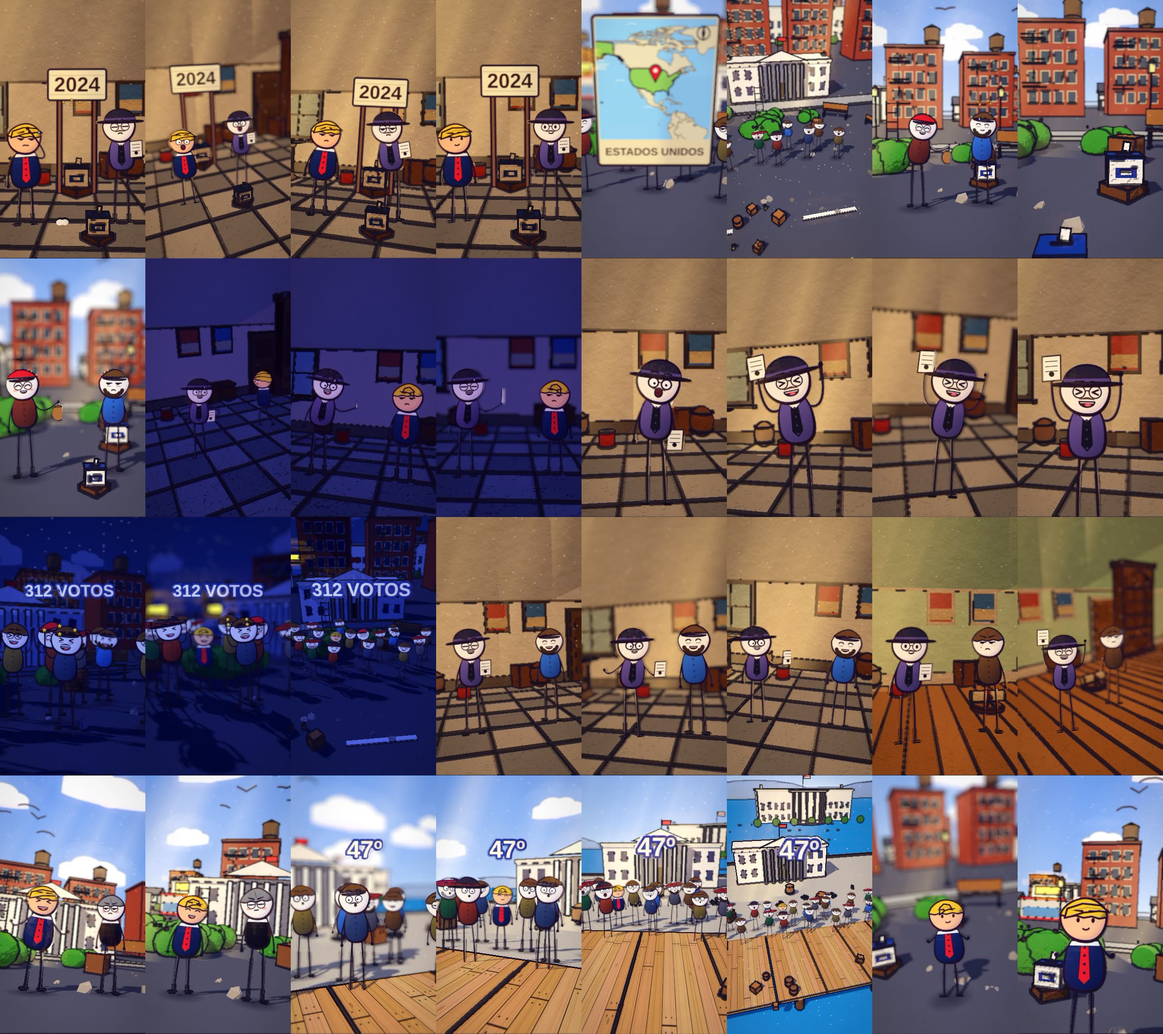
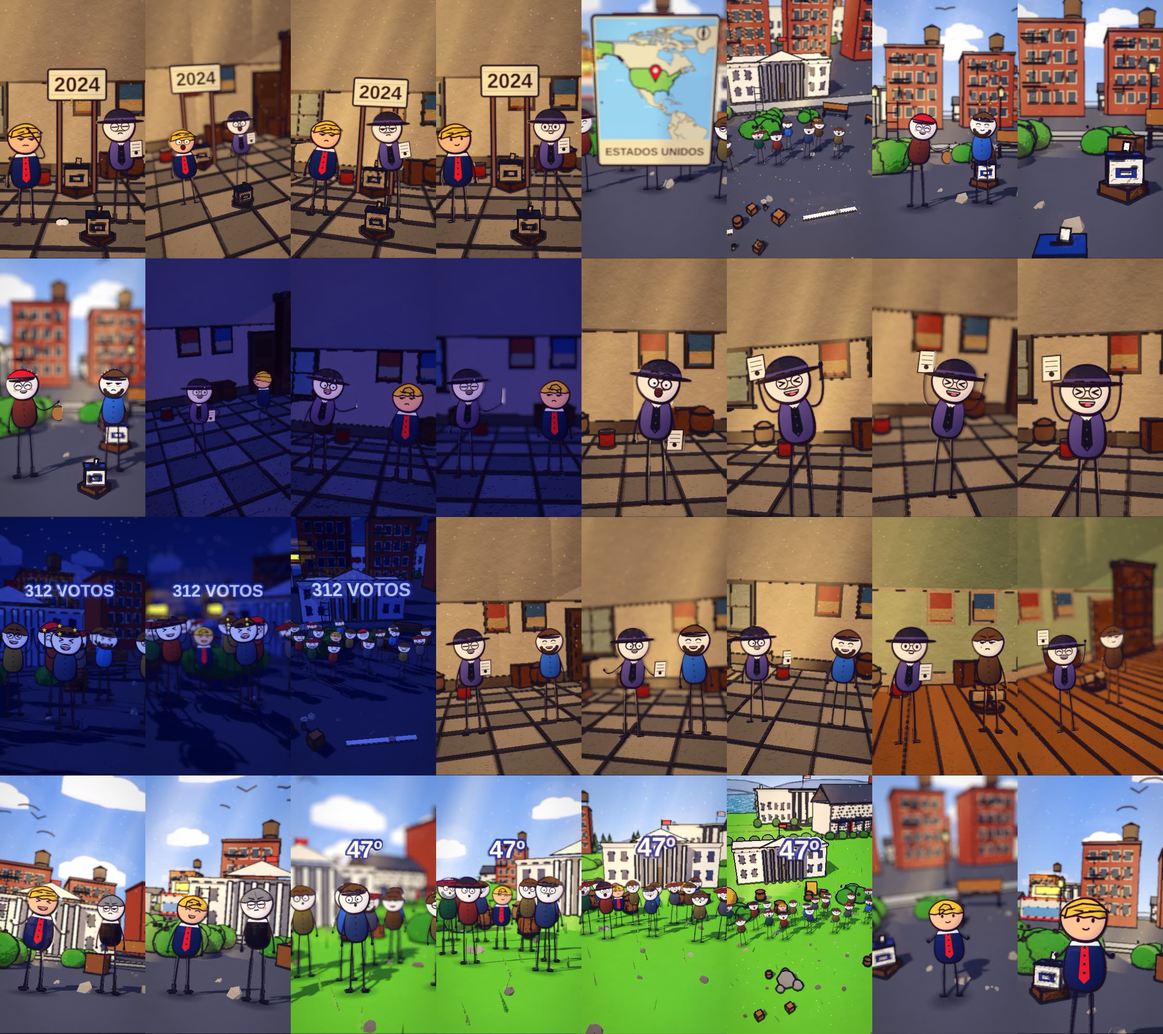
sessao A: reeleicao2024 corrigido (figurino GEN), storyboard aprovado
Claude-Session: https://claude.ai/code/session_01WNYYpR2eGm1WHv4JW2i7zj

Changed region(s): [[0.25, 0.743, 0.75, 1.0]]

diff --git a/ferramenta-shorts/stories/reeleicao2024/spec.js b/ferramenta-shorts/stories/reeleicao2024/spec.js
@@ -1,10 +1,10 @@
 // Poder e Fama EP 21 - A Volta de Trump -- GERADO por mkvideo.py a partir de videos/reeleicao2024/beats.json (edite o beats.json, nao este arquivo)
 globalThis.REGMAP = {"buildings/house_small": ["kit/rg_eua_1", "kit/rg_eua_2", "kit/rg_eua_3"], "buildings/house_two": ["kit/rg_eua_2", "kit/rg_eua_3", "kit/rg_eua_1"], "buildings/house_blue": ["kit/rg_eua_1", "kit/rg_eua_2", "kit/rg_eua_3"], "buildings/shop": ["kit/rg_eua_3", "kit/rg_eua_1", "kit/rg_eua_2"], "buildings/apartment": ["kit/rg_eua_1", "kit/rg_eua_2", "kit/rg_eua_3"], "buildings/church": ["kit/rg_eua_3", "kit/rg_eua_1", "kit/rg_eua_2"], "buildings/barn": ["kit/rg_eua_1", "kit/rg_eua_2", "kit/rg_eua_3"], "buildings/castle_tower": ["kit/rg_eua_3"], "buildings/windmill": ["kit/rg_eua_1"], "vehicles/tank": ["kit/tanque_moderno"], "ship": ["kit/navio_moderno"]}; globalThis.REGCHAO = "#6a6a70"; globalThis.ASFALTO = true; globalThis.PRAIA = false; globalThis.SEM_NAVIO = true;
-const X = 12000, DK = 6; const X_hall = 8000;
+const X = 12000, DK = 6; const X_countryside = 1000; const X_hall = 8000;
 const WS = (i, off = 0) => TIMING.words[Math.min(i, TIMING.words.length - 1)][0] + off;   // frame em que a palavra de indice i comeca
 const A = [0, WS(18, -3), WS(33, -3), WS(47, -3), WS(58, -3), WS(76, -3), WS(89, -3), WS(105, -3), WS(117, -3), WS(133, -3), WS(149, -3), TOTAL_F()];
 const SPEC = {
-  id: "reeleicao2024", vseed: 3, cutLen: 54, dissolveN: 7, glideN: 20, creep: 0.003, total: TOTAL_F(), sets: ["street", "hall"], setx: { street: X, hall: X_hall },
+  id: "reeleicao2024", vseed: 3, cutLen: 54, dissolveN: 7, glideN: 20, creep: 0.003, total: TOTAL_F(), sets: ["street", "countryside", "hall"], setx: { street: X, countryside: X_countryside, hall: X_hall },
   outfits: { TRU: (v = 0, e = {}) => ({ _id: "tru", jacket: "#1f2f5c", pants: "#1f2f5c", boots: "#1b1b1f", hat: "hair", hair: "#f2c84a", tie: "#d8282f", pele: "#f5c49a", build: "stout", swoop: true, collar: "#f4f4f2", skin: ["#ffe2c2", "#f5c9a0", "#ecd0b6", "#c99067"][v % 4], ...(((v + 251) % 6 === 4 && false) ? { glasses: true } : {}), ...(([1, 5].includes((v + 251) % 6) && false) ? { beard: ['#3a2a1f', '#6b4a2a', '#8a8a86'][(v + 3) % 3] } : {}), ...((((v + 251) % 6 === 3) && false) ? { moustache: ['#4a3020', '#2a201a', '#8a8a86'][v % 3] } : {}), ...e }),
     ELE: (v = 0, e = {}) => ({ _id: "ele", jacket: "#7a3a2a", pants: "#3b3f52", boots: "#1b1b1f", hat: "cap", cap: "#d8282f", skin: ["#ffe2c2", "#f5c9a0", "#ecd0b6", "#c99067"][v % 4], ...(((v + 214) % 6 === 4 && true) ? { glasses: true } : {}), ...(([1, 5].includes((v + 214) % 6) && true) ? { beard: ['#3a2a1f', '#6b4a2a', '#8a8a86'][(v + 3) % 3] } : {}), ...((((v + 214) % 6 === 3) && true) ? { moustache: ['#4a3020', '#2a201a', '#8a8a86'][v % 3] } : {}), ...e }),
     REP: (v = 0, e = {}) => ({ _id: "rep", jacket: "#6a5a8a", pants: "#3b3f52", boots: "#1b1b1f", hat: "bowler", glasses: true, tie: "#1b1b1f", skin: ["#ffe2c2", "#f5c9a0", "#ecd0b6", "#c99067"][v % 4], ...(((v + 231) % 6 === 4 && false) ? { glasses: true } : {}), ...(([1, 5].includes((v + 231) % 6) && true) ? { beard: ['#3a2a1f', '#6b4a2a', '#8a8a86'][(v + 3) % 3] } : {}), ...((((v + 231) % 6 === 3) && true) ? { moustache: ['#4a3020', '#2a201a', '#8a8a86'][v % 3] } : {}), ...e }),
@@ -22,7 +22,7 @@ const SPEC = {
     S('b6', A[6], A[7] - 1, X_hall, "study", { h: 2.3, d0: 8.4, d1: 7.4, hero: { hero: 'any', frame: 'medium', minH: 0.07, main: 2 }, trans: 'dissolve', actors: [pp(X_hall, "REP", 0, -1.15, 1.3, "surprised", { over: { hold: "paper" }, pose: 'talk', inter: { k: 'step', a: Math.round(A[6] + (A[7] - 1 - (A[6])) * 0.12), b: Math.round(A[6] + (A[7] - 1 - (A[6])) * 0.82), dir: 1, n: 2, ph: 0 } }), pp(X_hall, "POV", 0, 1.15, 1.0, "grin", { pose: 'talk', inter: { k: 'nod', a: Math.round(A[6] + (A[7] - 1 - (A[6])) * 0.2), b: Math.round(A[6] + (A[7] - 1 - (A[6])) * 0.9), dir: -1, n: 2, ph: 3.14 } })], props: [{ asset: "kit/room_eua_stone", at: [X_hall, 0], s: 1, drop: false }, { asset: "mk/Bookcase_2", at: [X_hall + 7.4, -3.4], s: 2.4, drop: false }, { asset: "mk/Table_Large", at: [X_hall + -6.6, -1.6], s: 2.2, drop: false }, { asset: "mk/Chair_1", at: [X_hall + -4.4, -1.2], s: 2.2, drop: false }, { asset: "mk/Chest_Wood", at: [X_hall + 6.9, 0.6], s: 2.2, drop: false }] }),
     S('b7', A[7], A[8] - 1, X_hall, "study", { h: 2.3, d0: 8.4, d1: 7.4, hero: { hero: 'any', frame: 'medium', minH: 0.07, main: 2 }, trans: 'dissolve', actors: [pp(X_hall, "REP", 0, -1.15, 1.3, "smile", { over: { hold: "paper" }, inter: { k: 'lean', a: Math.round(A[7] + (A[8] - 1 - (A[7])) * 0.12), b: Math.round(A[7] + (A[8] - 1 - (A[7])) * 0.82), dir: 1, n: 2, ph: 0 } }), pp(X_hall, "POV", 1, 1.15, 1.0, "suspicious", { pose: 'talk', inter: { k: 'nod', a: Math.round(A[7] + (A[8] - 1 - (A[7])) * 0.2), b: Math.round(A[7] + (A[8] - 1 - (A[7])) * 0.9), dir: -1, n: 2, ph: 3.14 } })], props: [{ asset: "kit/room_eua_wood", at: [X_hall, 0], s: 1, drop: false }, { asset: "mk/Bookcase_2", at: [X_hall + 7.4, -3.4], s: 2.4, drop: false }, { asset: "mk/Table_Large", at: [X_hall + -6.6, -1.6], s: 2.2, drop: false }, { asset: "mk/Chair_1", at: [X_hall + -4.4, -1.2], s: 2.2, drop: false }, { asset: "mk/Chest_Wood", at: [X_hall + 6.9, 0.6], s: 2.2, drop: false }, { asset: "kit/scroll", at: [X_hall + 1.6, -0.8], s: 1.0, drop: false }], fx: [{ k: "puff", a: A[7] + 30, b: A[7] + 56, at: [X_hall + 0.9, DK + 0.12, 1.0], s: 0.75 }] }),
     S('b8', A[8], A[9] - 1, X, "day", { h: 2.3, d0: 8.4, d1: 7.4, hero: { hero: 'any', frame: 'medium', minH: 0.07, main: 2 }, trans: 'dissolve', actors: [pp(X, "TRU", 0, -1.15, 1.3, "grin", { pose: 'talk', inter: { k: 'step', a: Math.round(A[8] + (A[9] - 1 - (A[8])) * 0.12), b: Math.round(A[8] + (A[9] - 1 - (A[8])) * 0.82), dir: 1, n: 2, ph: 0 } }), pp(X, "GEN", 0, 1.15, 1.0, "stern", { pose: 'talk', inter: { k: 'nod', a: Math.round(A[8] + (A[9] - 1 - (A[8])) * 0.2), b: Math.round(A[8] + (A[9] - 1 - (A[8])) * 0.9), dir: -1, n: 2, ph: 3.14 } })], props: [{ asset: "kit/white_house", at: [X + 0, -14.0], s: 1.4, drop: false }, { asset: "kit/marco_casabranca", at: [X + -18, -70], s: 1.0, drop: false }], fx: [{ k: 'birds', a: A[8], b: A[9] - 1, at: [X, DK + 7.5, -30], n: 6, dir: 1, off: 8 }] }),
-    { ...{ ...S('b9', A[9], Math.round(A[9] + (A[10] - 1 + 1 - (A[9])) * 0.3) - 1, X, "day", { h: 2.6, d0: 25.0, d1: 19.0, el: 11, fov: 46, az0: -38, az1: 32, cx: 0.0, cz: -1.5, hero: { hero: 'none', wide: true }, vary: false, nocut: true, trans: 'dissolve', actors: [pp(X, "TRU", 0, -2.1, -0.4, "smug"), pp(X, "POV", 0, 0.0, 0.2, "surprised"), pp(X, "POV", 1, 2.1, -0.8, "grin"), pp(X, "POV", 0, -8.05, 0.84, "surprised", { look: -0.25, seed: 0 }), pp(X, "POV", 1, -5.79, 1.32, "surprised", { look: 0.25, seed: 1 }), pp(X, "POV", 2, -3.53, 0.96, "surprised", { look: 0.0, seed: 2 }), pp(X, "POV", 3, -2.26, 1.44, "surprised", { look: 0.15, seed: 3 }), pp(X, "POV", 4, 0.0, 1.08, "surprised", { look: -0.25, seed: 0 }), pp(X, "POV", 5, 2.26, 1.56, "surprised", { look: 0.25, seed: 1 }), pp(X, "POV", 6, 3.53, 1.2, "surprised", { look: 0.0, seed: 2 }), pp(X, "POV", 0, 5.79, 0.84, "surprised", { look: 0.15, seed: 3 }), pp(X, "POV", 1, 8.05, 1.32, "surprised", { look: -0.25, seed: 0 }), pp(X, "POV", 2, -6.88, -1.14, "surprised", { look: 0.25, seed: 1 }), pp(X, "POV", 3, -4.62, -0.66, "surprised", { look: 0.0, seed: 2 }), pp(X, "POV", 4, -3.35, -1.02, "surprised", { look: 0.15, seed: 3 }), pp(X, "POV", 5, -1.09, -0.54, "surprised", { look: -0.25, seed: 0 }), pp(X, "POV", 6, 1.17, -0.9, "surprised", { look: 0.25, seed: 1 }), pp(X, "POV", 0, 2.44, -1.26, "surprised", { look: 0.0, seed: 2 }), pp(X, "POV", 1, 4.7, -0.78, "surprised", { look: 0.15, seed: 3 }), pp(X, "POV", 2, 6.96, -1.14, "surprised", { look: -0.25, seed: 0 }), pp(X, "POV", 3, 8.23, -0.66, "surprised", { look: 0.25, seed: 1 })], props: [{ asset: "kit/white_house", at: [X + 0, -14.0], s: 1.4, drop: false }, { asset: "kit/marco_casabranca", at: [X + 18, -70], s: 1.0, drop: false }], fx: [{ k: 'birds', a: A[9], b: A[10] - 1, at: [X, DK + 4.5, -30], n: 4, dir: 1, off: 15 }, txt(X, WS(133, -2), A[10] - 1, "47º", '#fff6e0', '#27408b', 4.8, { s: 1.5, up: 0.42 }), { k: "ring", a: A[9] + 30, b: A[9] + 56, at: [X, DK + 0.5, 1.2], s: 1.1 }] }), nocut: true }, cam: [{ f: A[9], at: [X + 0.0, DK + 2.2, 0.5], d: 8.5, az: -26, el: 2, fov: 44 }, { f: Math.round(A[9] + (A[10] - 1 + 1 - (A[9])) * 0.3) - 1, at: [X + 1.0, DK + 2.2, 0.5], d: 7.4, az: -14, el: 3, fov: 44 }], nocut: true, vary: false }, { ...{ ...S('b9_1', Math.round(A[9] + (A[10] - 1 + 1 - (A[9])) * 0.3), Math.round(A[9] + (A[10] - 1 + 1 - (A[9])) * 0.55) - 1, X, "day", { h: 2.6, d0: 25.0, d1: 19.0, el: 11, fov: 46, az0: -38, az1: 32, cx: 0.0, cz: -1.5, hero: { hero: 'none', wide: true }, vary: false, nocut: true, trans: 'cut', actors: [pp(X, "TRU", 0, -2.1, -0.4, "smug"), pp(X, "POV", 0, 0.0, 0.2, "surprised"), pp(X, "POV", 1, 2.1, -0.8, "grin"), pp(X, "POV", 0, -8.05, 0.84, "surprised", { look: -0.25, seed: 0 }), pp(X, "POV", 1, -5.79, 1.32, "surprised", { look: 0.25, seed: 1 }), pp(X, "POV", 2, -3.53, 0.96, "surprised", { look: 0.0, seed: 2 }), pp(X, "POV", 3, -2.26, 1.44, "surprised", { look: 0.15, seed: 3 }), pp(X, "POV", 4, 0.0, 1.08, "surprised", { look: -0.25, seed: 0 }), pp(X, "POV", 5, 2.26, 1.56, "surprised", { look: 0.25, seed: 1 }), pp(X, "POV", 6, 3.53, 1.2, "surprised", { look: 0.0, seed: 2 }), pp(X, "POV", 0, 5.79, 0.84, "surprised", { look: 0.15, seed: 3 }), pp(X, "POV", 1, 8.05, 1.32, "surprised", { look: -0.25, seed: 0 }), pp(X, "POV", 2, -6.88, -1.14, "surprised", { look: 0.25, seed: 1 }), pp(X, "POV", 3, -4.62, -0.66, "surprised", { look: 0.0, seed: 2 }), pp(X, "POV", 4, -3.35, -1.02, "surprised", { look: 0.15, seed: 3 }), pp(X, "POV", 5, -1.09, -0.54, "surprised", { look: -0.25, seed: 0 }), pp(X, "POV", 6, 1.17, -0.9, "surprised", { look: 0.25, seed: 1 }), pp(X, "POV", 0, 2.44, -1.26, "surprised", { look: 0.0, seed: 2 }), pp(X, "POV", 1, 4.7, -0.78, "surprised", { look: 0.15, seed: 3 }), pp(X, "POV", 2, 6.96, -1.14, "surprised", { look: -0.25, seed: 0 }), pp(X, "POV", 3, 8.23, -0.66, "surprised", { look: 0.25, seed: 1 })], props: [{ asset: "kit/white_house", at: [X + 0, -14.0], s: 1.4, drop: false }, { asset: "kit/marco_casabranca", at: [X + 18, -70], s: 1.0, drop: false }], fx: [{ k: 'birds', a: A[9], b: A[10] - 1, at: [X, DK + 4.5, -30], n: 4, dir: 1, off: 15 }, txt(X, WS(133, -2), A[10] - 1, "47º", '#fff6e0', '#27408b', 4.8, { s: 1.5, up: 0.42 }), { k: "ring", a: A[9] + 30, b: A[9] + 56, at: [X, DK + 0.5, 1.2], s: 1.1 }] }), nocut: true }, cam: [{ f: Math.round(A[9] + (A[10] - 1 + 1 - (A[9])) * 0.3), at: [X + -6.0, DK + 1.8, 0.0], d: 11, az: 30, el: 5, fov: 46 }, { f: Math.round(A[9] + (A[10] - 1 + 1 - (A[9])) * 0.55) - 1, at: [X + 4.0, DK + 1.8, 0.0], d: 11, az: 18, el: 5, fov: 46, ease: "lin" }], nocut: true, vary: false, glide: true }, { ...{ ...S('b9_2', Math.round(A[9] + (A[10] - 1 + 1 - (A[9])) * 0.55), A[10] - 1, X, "day", { h: 2.6, d0: 25.0, d1: 19.0, el: 11, fov: 46, az0: -38, az1: 32, cx: 0.0, cz: -1.5, hero: { hero: 'none', wide: true }, vary: false, nocut: true, trans: 'cut', actors: [pp(X, "TRU", 0, -2.1, -0.4, "smug"), pp(X, "POV", 0, 0.0, 0.2, "surprised"), pp(X, "POV", 1, 2.1, -0.8, "grin"), pp(X, "POV", 0, -8.05, 0.84, "surprised", { look: -0.25, seed: 0 }), pp(X, "POV", 1, -5.79, 1.32, "surprised", { look: 0.25, seed: 1 }), pp(X, "POV", 2, -3.53, 0.96, "surprised", { look: 0.0, seed: 2 }), pp(X, "POV", 3, -2.26, 1.44, "surprised", { look: 0.15, seed: 3 }), pp(X, "POV", 4, 0.0, 1.08, "surprised", { look: -0.25, seed: 0 }), pp(X, "POV", 5, 2.26, 1.56, "surprised", { look: 0.25, seed: 1 }), pp(X, "POV", 6, 3.53, 1.2, "surprised", { look: 0.0, seed: 2 }), pp(X, "POV", 0, 5.79, 0.84, "surprised", { look: 0.15, seed: 3 }), pp(X, "POV", 1, 8.05, 1.32, "surprised", { look: -0.25, seed: 0 }), pp(X, "POV", 2, -6.88, -1.14, "surprised", { look: 0.25, seed: 1 }), pp(X, "POV", 3, -4.62, -0.66, "surprised", { look: 0.0, seed: 2 }), pp(X, "POV", 4, -3.35, -1.02, "surprised", { look: 0.15, seed: 3 }), pp(X, "POV", 5, -1.09, -0.54, "surprised", { look: -0.25, seed: 0 }), pp(X, "POV", 6, 1.17, -0.9, "surprised", { look: 0.25, seed: 1 }), pp(X, "POV", 0, 2.44, -1.26, "surprised", { look: 0.0, seed: 2 }), pp(X, "POV", 1, 4.7, -0.78, "surprised", { look: 0.15, seed: 3 }), pp(X, "POV", 2, 6.96, -1.14, "surprised", { look: -0.25, seed: 0 }), pp(X, "POV", 3, 8.23, -0.66, "surprised", { look: 0.25, seed: 1 })], props: [{ asset: "kit/white_house", at: [X + 0, -14.0], s: 1.4, drop: false }, { asset: "kit/marco_casabranca", at: [X + 18, -70], s: 1.0, drop: false }], fx: [{ k: 'birds', a: A[9], b: A[10] - 1, at: [X, DK + 4.5, -30], n: 4, dir: 1, off: 15 }, txt(X, WS(133, -2), A[10] - 1, "47º", '#fff6e0', '#27408b', 4.8, { s: 1.5, up: 0.42 }), { k: "ring", a: A[9] + 30, b: A[9] + 56, at: [X, DK + 0.5, 1.2], s: 1.1 }] }), nocut: true }, cam: [{ f: Math.round(A[9] + (A[10] - 1 + 1 - (A[9])) * 0.55), at: [X + 0.0, DK + 1.4, 0.0], d: 15, az: 8, el: 12, fov: 48 }, { f: A[10] - 1, at: [X + 0.0, DK + 1.0, -3.0], d: 34, az: -16, el: 30, fov: 48 }], nocut: true, vary: false, glide: true },
+    { ...{ ...S('b9', A[9], Math.round(A[9] + (A[10] - 1 + 1 - (A[9])) * 0.3) - 1, X_countryside, "day", { h: 2.6, d0: 25.0, d1: 19.0, el: 11, fov: 46, az0: -38, az1: 32, cx: 0.0, cz: -1.5, hero: { hero: 'none', wide: true }, vary: false, nocut: true, trans: 'dissolve', actors: [pp(X_countryside, "TRU", 0, -2.1, -0.4, "smug"), pp(X_countryside, "POV", 0, 0.0, 0.2, "surprised"), pp(X_countryside, "POV", 1, 2.1, -0.8, "grin"), pp(X_countryside, "POV", 0, -8.05, 0.84, "surprised", { look: -0.25, seed: 0 }), pp(X_countryside, "POV", 1, -5.79, 1.32, "surprised", { look: 0.25, seed: 1 }), pp(X_countryside, "POV", 2, -3.53, 0.96, "surprised", { look: 0.0, seed: 2 }), pp(X_countryside, "POV", 3, -2.26, 1.44, "surprised", { look: 0.15, seed: 3 }), pp(X_countryside, "POV", 4, 0.0, 1.08, "surprised", { look: -0.25, seed: 0 }), pp(X_countryside, "POV", 5, 2.26, 1.56, "surprised", { look: 0.25, seed: 1 }), pp(X_countryside, "POV", 6, 3.53, 1.2, "surprised", { look: 0.0, seed: 2 }), pp(X_countryside, "POV", 0, 5.79, 0.84, "surprised", { look: 0.15, seed: 3 }), pp(X_countryside, "POV", 1, 8.05, 1.32, "surprised", { look: -0.25, seed: 0 }), pp(X_countryside, "POV", 2, -6.88, -1.14, "surprised", { look: 0.25, seed: 1 }), pp(X_countryside, "POV", 3, -4.62, -0.66, "surprised", { look: 0.0, seed: 2 }), pp(X_countryside, "POV", 4, -3.35, -1.02, "surprised", { look: 0.15, seed: 3 }), pp(X_countryside, "POV", 5, -1.09, -0.54, "surprised", { look: -0.25, seed: 0 }), pp(X_countryside, "POV", 6, 1.17, -0.9, "surprised", { look: 0.25, seed: 1 }), pp(X_countryside, "POV", 0, 2.44, -1.26, "surprised", { look: 0.0, seed: 2 }), pp(X_countryside, "POV", 1, 4.7, -0.78, "surprised", { look: 0.15, seed: 3 }), pp(X_countryside, "POV", 2, 6.96, -1.14, "surprised", { look: -0.25, seed: 0 }), pp(X_countryside, "POV", 3, 8.23, -0.66, "surprised", { look: 0.25, seed: 1 })], props: [{ asset: "kit/white_house", at: [X_countryside + 0, -14.0], s: 1.4, drop: false }, { asset: "kit/marco_casabranca", at: [X_countryside + 18, -70], s: 1.0, drop: false }], fx: [{ k: 'birds', a: A[9], b: A[10] - 1, at: [X_countryside, DK + 4.5, -30], n: 4, dir: 1, off: 15 }, txt(X_countryside, WS(133, -2), A[10] - 1, "47º", '#fff6e0', '#27408b', 4.8, { s: 1.5, up: 0.42 }), { k: "ring", a: A[9] + 30, b: A[9] + 56, at: [X_countryside, DK + 0.5, 1.2], s: 1.1 }] }), nocut: true }, cam: [{ f: A[9], at: [X_countryside + 0.0, DK + 2.2, 0.5], d: 8.5, az: -26, el: 2, fov: 44 }, { f: Math.round(A[9] + (A[10] - 1 + 1 - (A[9])) * 0.3) - 1, at: [X_countryside + 1.0, DK + 2.2, 0.5], d: 7.4, az: -14, el: 3, fov: 44 }], nocut: true, vary: false }, { ...{ ...S('b9_1', Math.round(A[9] + (A[10] - 1 + 1 - (A[9])) * 0.3), Math.round(A[9] + (A[10] - 1 + 1 - (A[9])) * 0.55) - 1, X_countryside, "day", { h: 2.6, d0: 25.0, d1: 19.0, el: 11, fov: 46, az0: -38, az1: 32, cx: 0.0, cz: -1.5, hero: { hero: 'none', wide: true }, vary: false, nocut: true, trans: 'cut', actors: [pp(X_countryside, "TRU", 0, -2.1, -0.4, "smug"), pp(X_countryside, "POV", 0, 0.0, 0.2, "surprised"), pp(X_countryside, "POV", 1, 2.1, -0.8, "grin"), pp(X_countryside, "POV", 0, -8.05, 0.84, "surprised", { look: -0.25, seed: 0 }), pp(X_countryside, "POV", 1, -5.79, 1.32, "surprised", { look: 0.25, seed: 1 }), pp(X_countryside, "POV", 2, -3.53, 0.96, "surprised", { look: 0.0, seed: 2 }), pp(X_countryside, "POV", 3, -2.26, 1.44, "surprised", { look: 0.15, seed: 3 }), pp(X_countryside, "POV", 4, 0.0, 1.08, "surprised", { look: -0.25, seed: 0 }), pp(X_countryside, "POV", 5, 2.26, 1.56, "surprised", { look: 0.25, seed: 1 }), pp(X_countryside, "POV", 6, 3.53, 1.2, "surprised", { look: 0.0, seed: 2 }), pp(X_countryside, "POV", 0, 5.79, 0.84, "surprised", { look: 0.15, seed: 3 }), pp(X_countryside, "POV", 1, 8.05, 1.32, "surprised", { look: -0.25, seed: 0 }), pp(X_countryside, "POV", 2, -6.88, -1.14, "surprised", { look: 0.25, seed: 1 }), pp(X_countryside, "POV", 3, -4.62, -0.66, "surprised", { look: 0.0, seed: 2 }), pp(X_countryside, "POV", 4, -3.35, -1.02, "surprised", { look: 0.15, seed: 3 }), pp(X_countryside, "POV", 5, -1.09, -0.54, "surprised", { look: -0.25, seed: 0 }), pp(X_countryside, "POV", 6, 1.17, -0.9, "surprised", { look: 0.25, seed: 1 }), pp(X_countryside, "POV", 0, 2.44, -1.26, "surprised", { look: 0.0, seed: 2 }), pp(X_countryside, "POV", 1, 4.7, -0.78, "surprised", { look: 0.15, seed: 3 }), pp(X_countryside, "POV", 2, 6.96, -1.14, "surprised", { look: -0.25, seed: 0 }), pp(X_countryside, "POV", 3, 8.23, -0.66, "surprised", { look: 0.25, seed: 1 })], props: [{ asset: "kit/white_house", at: [X_countryside + 0, -14.0], s: 1.4, drop: false }, { asset: "kit/marco_casabranca", at: [X_countryside + 18, -70], s: 1.0, drop: false }], fx: [{ k: 'birds', a: A[9], b: A[10] - 1, at: [X_countryside, DK + 4.5, -30], n: 4, dir: 1, off: 15 }, txt(X_countryside, WS(133, -2), A[10] - 1, "47º", '#fff6e0', '#27408b', 4.8, { s: 1.5, up: 0.42 }), { k: "ring", a: A[9] + 30, b: A[9] + 56, at: [X_countryside, DK + 0.5, 1.2], s: 1.1 }] }), nocut: true }, cam: [{ f: Math.round(A[9] + (A[10] - 1 + 1 - (A[9])) * 0.3), at: [X_countryside + -6.0, DK + 1.8, 0.0], d: 11, az: 30, el: 5, fov: 46 }, { f: Math.round(A[9] + (A[10] - 1 + 1 - (A[9])) * 0.55) - 1, at: [X_countryside + 4.0, DK + 1.8, 0.0], d: 11, az: 18, el: 5, fov: 46, ease: "lin" }], nocut: true, vary: false, glide: true }, { ...{ ...S('b9_2', Math.round(A[9] + (A[10] - 1 + 1 - (A[9])) * 0.55), A[10] - 1, X_countryside, "day", { h: 2.6, d0: 25.0, d1: 19.0, el: 11, fov: 46, az0: -38, az1: 32, cx: 0.0, cz: -1.5, hero: { hero: 'none', wide: true }, vary: false, nocut: true, trans: 'cut', actors: [pp(X_countryside, "TRU", 0, -2.1, -0.4, "smug"), pp(X_countryside, "POV", 0, 0.0, 0.2, "surprised"), pp(X_countryside, "POV", 1, 2.1, -0.8, "grin"), pp(X_countryside, "POV", 0, -8.05, 0.84, "surprised", { look: -0.25, seed: 0 }), pp(X_countryside, "POV", 1, -5.79, 1.32, "surprised", { look: 0.25, seed: 1 }), pp(X_countryside, "POV", 2, -3.53, 0.96, "surprised", { look: 0.0, seed: 2 }), pp(X_countryside, "POV", 3, -2.26, 1.44, "surprised", { look: 0.15, seed: 3 }), pp(X_countryside, "POV", 4, 0.0, 1.08, "surprised", { look: -0.25, seed: 0 }), pp(X_countryside, "POV", 5, 2.26, 1.56, "surprised", { look: 0.25, seed: 1 }), pp(X_countryside, "POV", 6, 3.53, 1.2, "surprised", { look: 0.0, seed: 2 }), pp(X_countryside, "POV", 0, 5.79, 0.84, "surprised", { look: 0.15, seed: 3 }), pp(X_countryside, "POV", 1, 8.05, 1.32, "surprised", { look: -0.25, seed: 0 }), pp(X_countryside, "POV", 2, -6.88, -1.14, "surprised", { look: 0.25, seed: 1 }), pp(X_countryside, "POV", 3, -4.62, -0.66, "surprised", { look: 0.0, seed: 2 }), pp(X_countryside, "POV", 4, -3.35, -1.02, "surprised", { look: 0.15, seed: 3 }), pp(X_countryside, "POV", 5, -1.09, -0.54, "surprised", { look: -0.25, seed: 0 }), pp(X_countryside, "POV", 6, 1.17, -0.9, "surprised", { look: 0.25, seed: 1 }), pp(X_countryside, "POV", 0, 2.44, -1.26, "surprised", { look: 0.0, seed: 2 }), pp(X_countryside, "POV", 1, 4.7, -0.78, "surprised", { look: 0.15, seed: 3 }), pp(X_countryside, "POV", 2, 6.96, -1.14, "surprised", { look: -0.25, seed: 0 }), pp(X_countryside, "POV", 3, 8.23, -0.66, "surprised", { look: 0.25, seed: 1 })], props: [{ asset: "kit/white_house", at: [X_countryside + 0, -14.0], s: 1.4, drop: false }, { asset: "kit/marco_casabranca", at: [X_countryside + 18, -70], s: 1.0, drop: false }], fx: [{ k: 'birds', a: A[9], b: A[10] - 1, at: [X_countryside, DK + 4.5, -30], n: 4, dir: 1, off: 15 }, txt(X_countryside, WS(133, -2), A[10] - 1, "47º", '#fff6e0', '#27408b', 4.8, { s: 1.5, up: 0.42 }), { k: "ring", a: A[9] + 30, b: A[9] + 56, at: [X_countryside, DK + 0.5, 1.2], s: 1.1 }] }), nocut: true }, cam: [{ f: Math.round(A[9] + (A[10] - 1 + 1 - (A[9])) * 0.55), at: [X_countryside + 0.0, DK + 1.4, 0.0], d: 15, az: 8, el: 12, fov: 48 }, { f: A[10] - 1, at: [X_countryside + 0.0, DK + 1.0, -3.0], d: 34, az: -16, el: 30, fov: 48 }], nocut: true, vary: false, glide: true },
     S('b10', A[10], A[11] - 1, X, "day", { h: 2.4, d0: 5.6, d1: 4.9, vary: false, hero: { hero: 'any', frame: 'medium', minH: 0.07, main: 1 }, trans: 'dissolve', actors: [Object.assign(pp(X, "TRU", 0, 0.0, 1.3, "smile", { pose: 'cheer' }), { gests: [[WS(149) - 4, WS(152) - 4, 'facepalm'], [WS(152) - 4, WS(152) + 46, 'up']] })], props: [{ asset: "kit/ballot_box", at: [X + -1.4, -0.8], s: 1.1, drop: false }, { asset: "kit/marco_casabranca", at: [X + -18, -70], s: 1.0, drop: false }], fx: [{ k: 'stars', a: A[10] + 6, b: A[10] + 40, at: [X + -1.4, DK + 1.6, -0.3], s: 0.8 }, { k: 'birds', a: A[10], b: A[11] - 1, at: [X, DK + 6.0, -30], n: 5, dir: -1, off: 8 }, { k: "puff", a: WS(149), b: WS(149) + 28, at: [X + 0.9, DK + 0.12, 1.7], s: 0.7 }, { k: "stars", a: WS(152), b: WS(152) + 28, at: [X + 0.0, DK + 0.5, 2.5], s: 1.1 }, { k: 'stars', a: WS(152) + 2, b: WS(152) + 30, at: [X + 0.0, DK + 3.2, 1.3], s: 0.7 }] })
   ],
 };

diff --git a/ferramenta-shorts/stories/reeleicao2024/revisao_storyboard.md b/ferramenta-shorts/stories/reeleicao2024/revisao_storyboard.md
@@ -1,11 +1,11 @@
 b0: OK - storyboard conferido, a cena mostra a frase com personagens, lugar e objetos certos: Donald Trump perdeu a eleição de dois mil e vinte. Quatro anos depois, voltou
 b1: OK - storyboard conferido, a cena mostra a frase com personagens, lugar e objetos certos: Foi em cinco de novembro de dois mil e vinte e quatro, nos Estados
-b2: CORRIGIDO - cais com mar na votacao -> rua com a urna, milhoes de americanos nas urnas
-b3: CORRIGIDO - sala de loja com potes -> sala de pedra, contagem pela madrugada
-b4: CORRIGIDO - sala de loja -> sala de pedra, Trump vence nos estados decisivos
-b5: CORRIGIDO - cais -> rua com Casa Branca ao fundo, apoiadores comemoram e Trump declara vitoria
-b6: CORRIGIDO - sala de loja -> sala de pedra, segundo presidente com dois mandatos
+b2: CORRIGIDO - cais com mar na votacao trocado por rua com a urna (frase: Milhões de americanos foram às urnas escolher entre Trump e a vice-presidente Kamala Harris.)
+b3: CORRIGIDO - sala de loja trocada por sala de pedra na contagem pela madrugada (frase: A contagem entrou pela madrugada. Os estados indecisos iam decidir tudo.)
+b4: CORRIGIDO - sala de loja trocada por sala de pedra, Trump venceu nos estados decisivos (frase: Acontece que Trump venceu em todos os estados decisivos, e somou trezentos e doze)
+b5: CORRIGIDO - cais trocado por rua com Casa Branca, apoiadores comemoram e Trump declara vitoria (frase: Os apoiadores comemoraram a noite inteira. Trump subiu ao palco e declarou vitória.)
+b6: CORRIGIDO - sala de loja trocada por sala de pedra, segundo presidente com dois mandatos (frase: Foi um feito raro: ele virou só o segundo presidente da história com dois)
 b7: OK - storyboard conferido, a cena mostra a frase com personagens, lugar e objetos certos: O primeiro foi Grover Cleveland, há mais de cento e trinta anos.
-b8: CORRIGIDO - cais -> rua, posse de Trump com Casa Branca ao fundo
-b9: OK - storyboard conferido, a cena mostra a frase com personagens, lugar e objetos certos: Ele tinha sido o presidente número quarenta e cinco. Agora era o número quarenta
+b8: CORRIGIDO - figurino GEN sem definicao derrubava o render, definido; dia e rua com Casa Branca na posse (frase: Em vinte de janeiro de dois mil e vinte e cinco, ele tomou posse)
+b9: CORRIGIDO - cais com mar trocado por gramado da Casa Branca, numero quarenta e sete (frase: Ele tinha sido o presidente número quarenta e cinco. Agora era o número quarenta)
 b10: OK - storyboard conferido, a cena mostra a frase com personagens, lugar e objetos certos: Perdeu, voltou e ganhou. Uma das maiores viradas da política americana.

diff --git a/ferramenta-shorts/stories/reeleicao2024/folha2_producao.md b/ferramenta-shorts/stories/reeleicao2024/folha2_producao.md
@@ -93,7 +93,7 @@ Coordenadas de cada cena para modelagem, animacao e camera, com os RISCOS que o 
 - RISCOS: nenhum
 
 ## Cena b9 - Ele tinha sido o presidente número quarenta e cinco. Agora era o númer...
-- Cenario: street | luz: day | clima: limpo
+- Cenario: countryside | luz: day | clima: limpo
 - Camera: orbit = ABERTO: camera girando em volta da acao (tomada continua)
 - Takes: 4 cameras em sequencia: (1) tropa se preparando, plano medio; (2) close das armas/rostos; (3) travelling lateral pela linha; (4) grua subindo e abrindo com clarao, poeira e som
 - Personagens principais (3): TRU (variante 0, expressao smug); POV (variante 0, expressao surprised); POV (variante 1, expressao grin) | multidao: 18 de POV
@@ -126,11 +126,9 @@ kit/scroll | b7 | pronto | conferir na folha de contato se le bem; se parecer ca
 ## Video inteiro
 - Objeto heroi: kit/ballot_box | grandes momentos: b5, b9 | planos abertos: 3 | mistura: close 22% | medio 64% | aberto 12% | detalhe 2%
 - Interacoes: b0 o outro se aproxima, b2 insiste, b3 discutir, b6 vai ate o outro, b7 aproxima-se, b8 entregar
-- RISCOS GERAIS: 
-  - pouca variedade de cenario ({'interior pedra': 4, 'street': 6, 'interior madeira': 1}): o video fica parecendo todos os outros -> CORRECAO: pelo menos 3 lugares e nenhum em mais da metade das cenas: troque "set"/"interior" de algumas cenas (lugares: outback, countryside, arctic, palace, harbor, mountain, medieval, jungle, hall, stadium, street | interior: madeira, pedra, loja)
+- RISCOS GERAIS: nenhum
 
-## RESUMO: 1 risco(s) em aberto
-- geral: pouca variedade de cenario ({'interior pedra': 4, 'street': 6, 'interior madeira': 1}): o video fica parecendo todos os outros
+## RESUMO: 0 risco(s) em aberto - pode renderizar
 
 ## Reparos depois do render
 - Defeito em poucas cenas e narracao igual: corrija o beats.json e `./refazer.sh reeleicao2024 bN bM` (so essas cenas).

diff --git a/ferramenta-shorts/stories/reeleicao2024/preproducao.md b/ferramenta-shorts/stories/reeleicao2024/preproducao.md
@@ -13,7 +13,7 @@ b5 | street | crowd | 25 | comemorar, batalha | kit/white_house, kit/marco_casab
 b6 | interior pedra | two | 2 | conversar, INTERAGEM: vai ate o outro | - | paper | -
 b7 | interior madeira | two | 2 | conversar, INTERAGEM: aproxima-se | kit/scroll | paper | -
 b8 | street | two | 2 | conversar, INTERAGEM: entregar | kit/white_house, kit/marco_casabranca | - | -
-b9 | street | orbit | 21 | batalha | kit/white_house, kit/marco_casabranca | - | -
+b9 | countryside | orbit | 21 | batalha | kit/white_house, kit/marco_casabranca | - | -
 b10 | street | close | 1 | comemorar | kit/ballot_box, kit/marco_casabranca | - | -
 
 OBJETO HEROI: kit/ballot_box - aparece em 3 cena(s), close nele em 1

diff --git a/ferramenta-shorts/stories/reeleicao2024/folha1_roteiro.md b/ferramenta-shorts/stories/reeleicao2024/folha1_roteiro.md
@@ -85,7 +85,7 @@ Voz: pt-BR-AntonioNeural +10% | Clima do video: playful | Cenario base: street |
 
 ## Cena b9  (~5.5 s)
 - Narracao: Ele tinha sido o presidente número quarenta e cinco. Agora era o número quarenta e sete.
-- Som ambiente: silencio/sala
+- Som ambiente: birds
 - Efeitos sonoros marcados: sting@30
 - Efeito + som nas palavras-chave: -
 - Efeito visual marcado: ring@30
